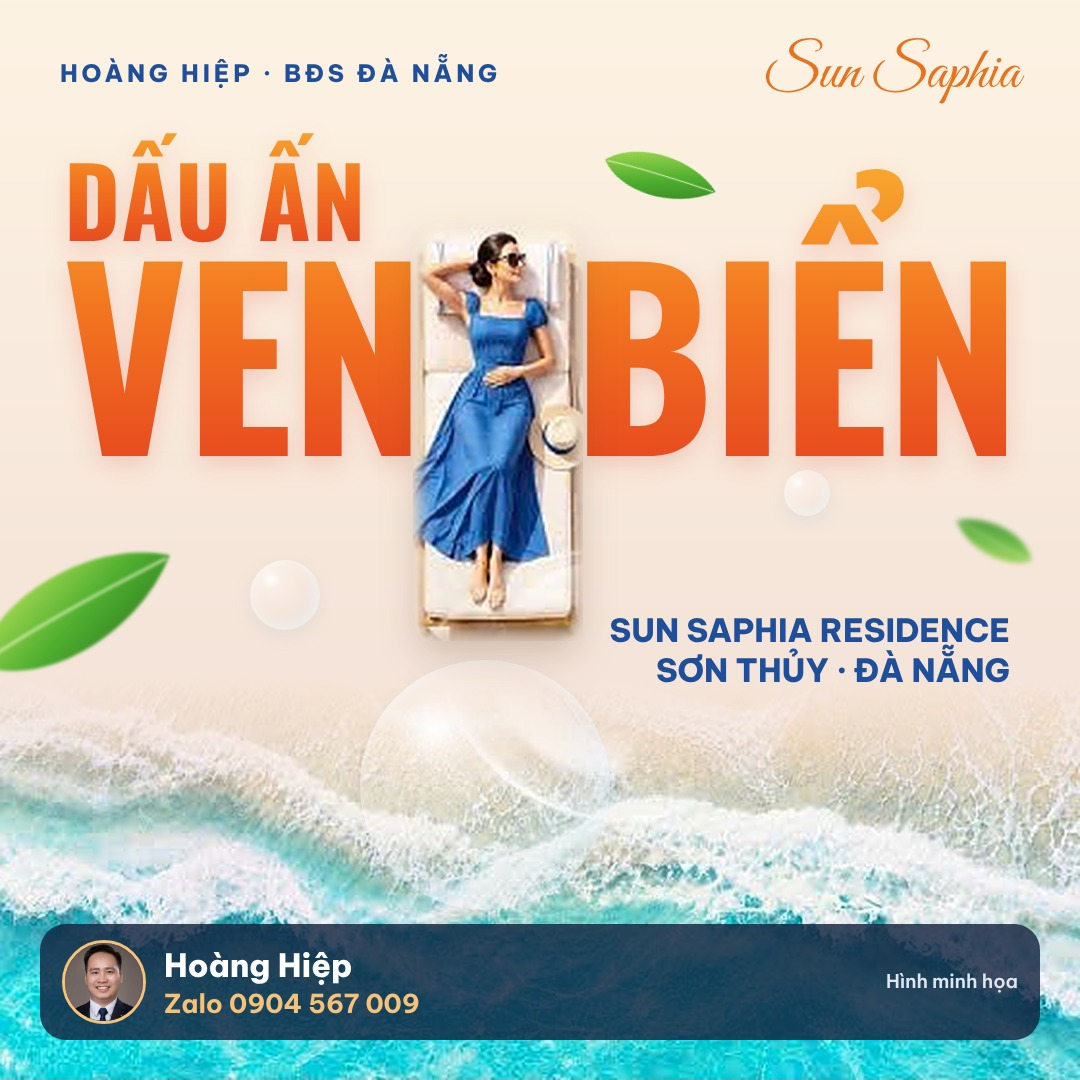
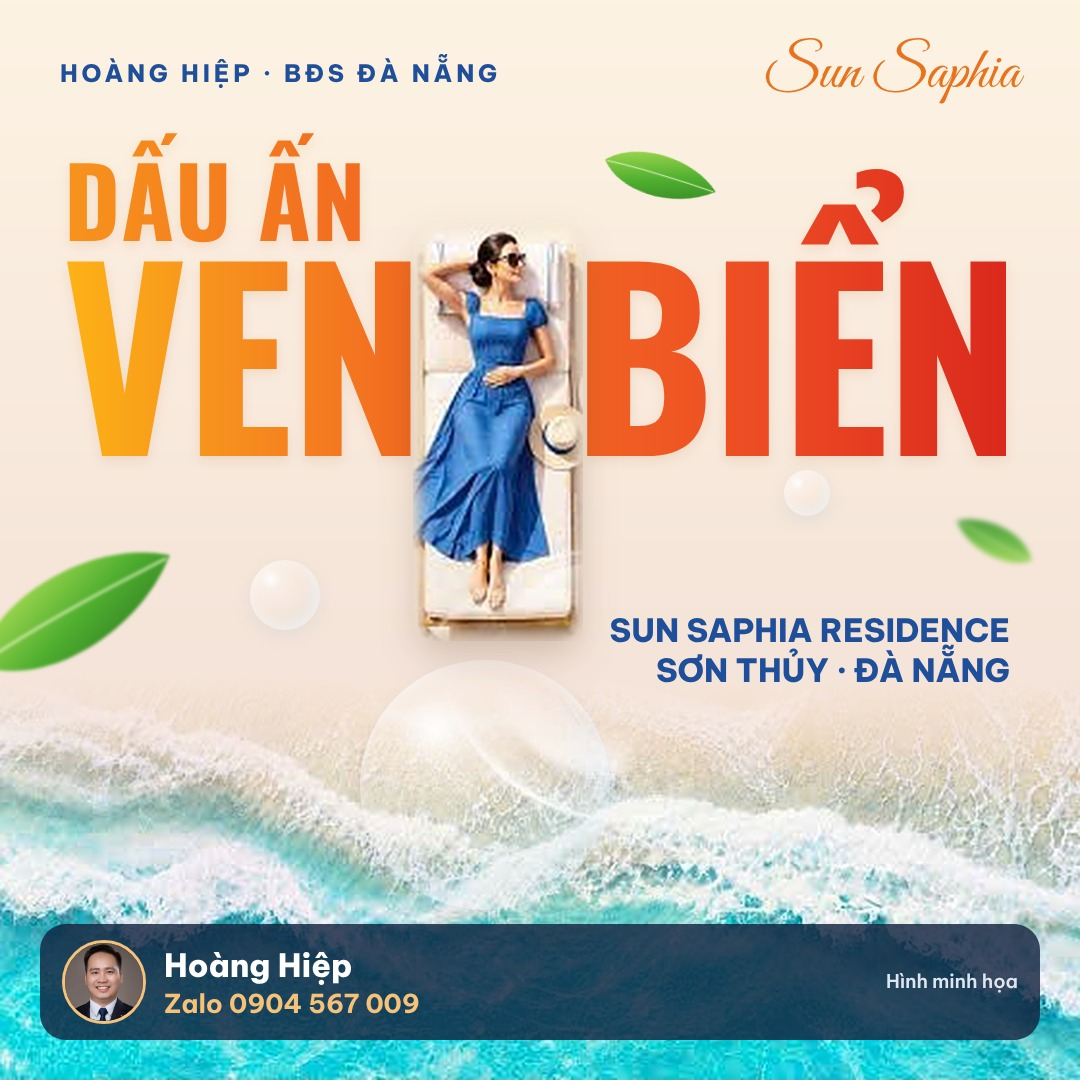
Mẫu bãi biển: màu chữ chuyển ngang vàng cam → đỏ như mẫu chủ đầu tư
Claude-Session: https://claude.ai/code/session_01Wm6ymiK43bcSEb2Ytz1zHX

diff --git a/wordpress/bai-viet/the-nang-cam-bien.py b/wordpress/bai-viet/the-nang-cam-bien.py
@@ -38,8 +38,10 @@ body{{width:1080px;height:1080px;position:relative;overflow:hidden;font-family:B
 .kick{{position:absolute;top:150px;left:64px;font:700 96px/1 OS;letter-spacing:.01em}}
 .title{{position:absolute;top:240px;left:40px;right:40px;display:flex;justify-content:center;align-items:flex-start;gap:0}}
 .w{{font:700 330px/0.9 OS;white-space:nowrap;letter-spacing:-.01em}}
-.g{{background:linear-gradient(180deg,#f9b233 0%,#f27420 45%,#e2381f 100%);-webkit-background-clip:text;color:transparent;
-padding:.14em .03em .02em;margin:-.14em -.03em -.02em;filter:drop-shadow(0 8px 12px rgba(226,56,31,.18))}}
+.g{{background:linear-gradient(90deg,#fdb515 0%,#f7941d 40%,#f26522 100%);-webkit-background-clip:text;color:transparent;
+padding:.14em .03em .02em;margin:-.14em -.03em -.02em;filter:drop-shadow(0 4px 6px rgba(200,90,20,.12))}}
+.kick .g{{background:linear-gradient(90deg,#f7941d,#f26a21);-webkit-background-clip:text}}
+.r .g{{background:linear-gradient(90deg,#f26522 0%,#ec4a24 45%,#d9261c 100%);-webkit-background-clip:text}}
 .fig{{position:relative;width:170px;margin:-20px -10px 0;z-index:3;filter:drop-shadow(0 18px 18px rgba(80,50,20,.25))}}
 .fig img{{width:170px;display:block}}
 .sub{{position:absolute;top:610px;right:70px;text-align:right;font:800 32px/1.25 BVP;color:#1f4f9a;text-transform:uppercase}}
@@ -55,7 +57,7 @@ body = f"""<div class="leaf" style="width:230px;height:104px;left:-40px;top:560p
 <div class="leaf" style="width:90px;height:40px;right:40px;top:520px;transform:rotate(-150deg);filter:blur(2.5px);opacity:.85"></div>
 <div class="brand">HOÀNG HIỆP · BĐS ĐÀ NẴNG</div><div class="proj">{e(c.get('project', ''))}</div>
 <div class="kick"><span class="g">{e(c['kicker'])}</span></div>
-<div class="title"><div class="w"><span class="g">{e(c['left'])}</span></div><div class="fig"><img src="{b64(c['figure'])}"></div><div class="w"><span class="g">{e(c['right'])}</span></div></div>
+<div class="title"><div class="w"><span class="g">{e(c['left'])}</span></div><div class="fig"><img src="{b64(c['figure'])}"></div><div class="w r"><span class="g">{e(c['right'])}</span></div></div>
 <div class="sub">{sub}</div>
 <div class="bub" style="width:250px;height:250px;left:360px;top:660px"></div>
 <div class="bub" style="width:70px;height:70px;left:250px;top:560px"></div>
